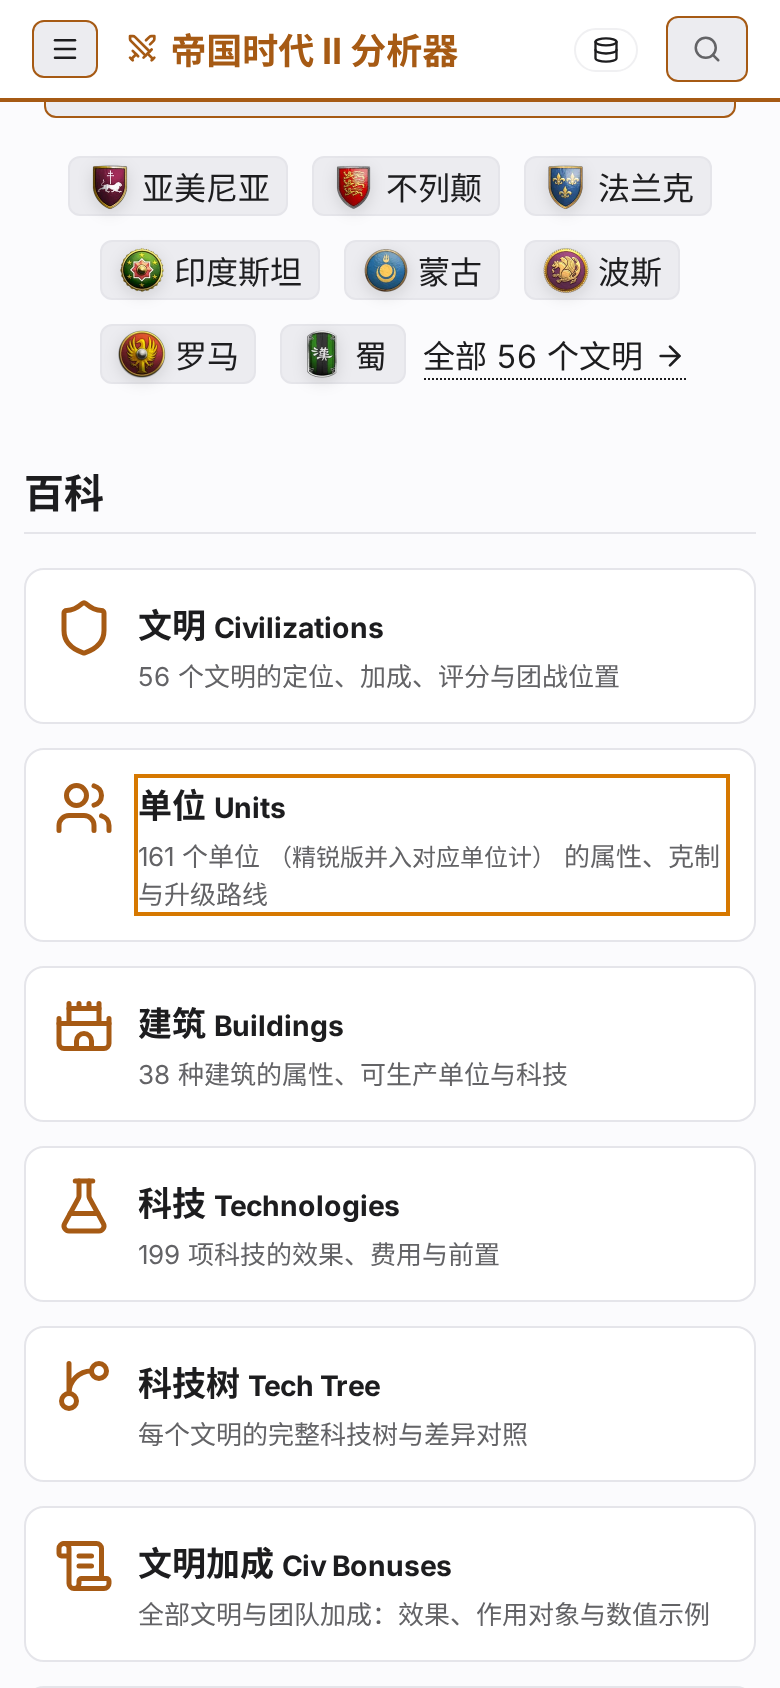
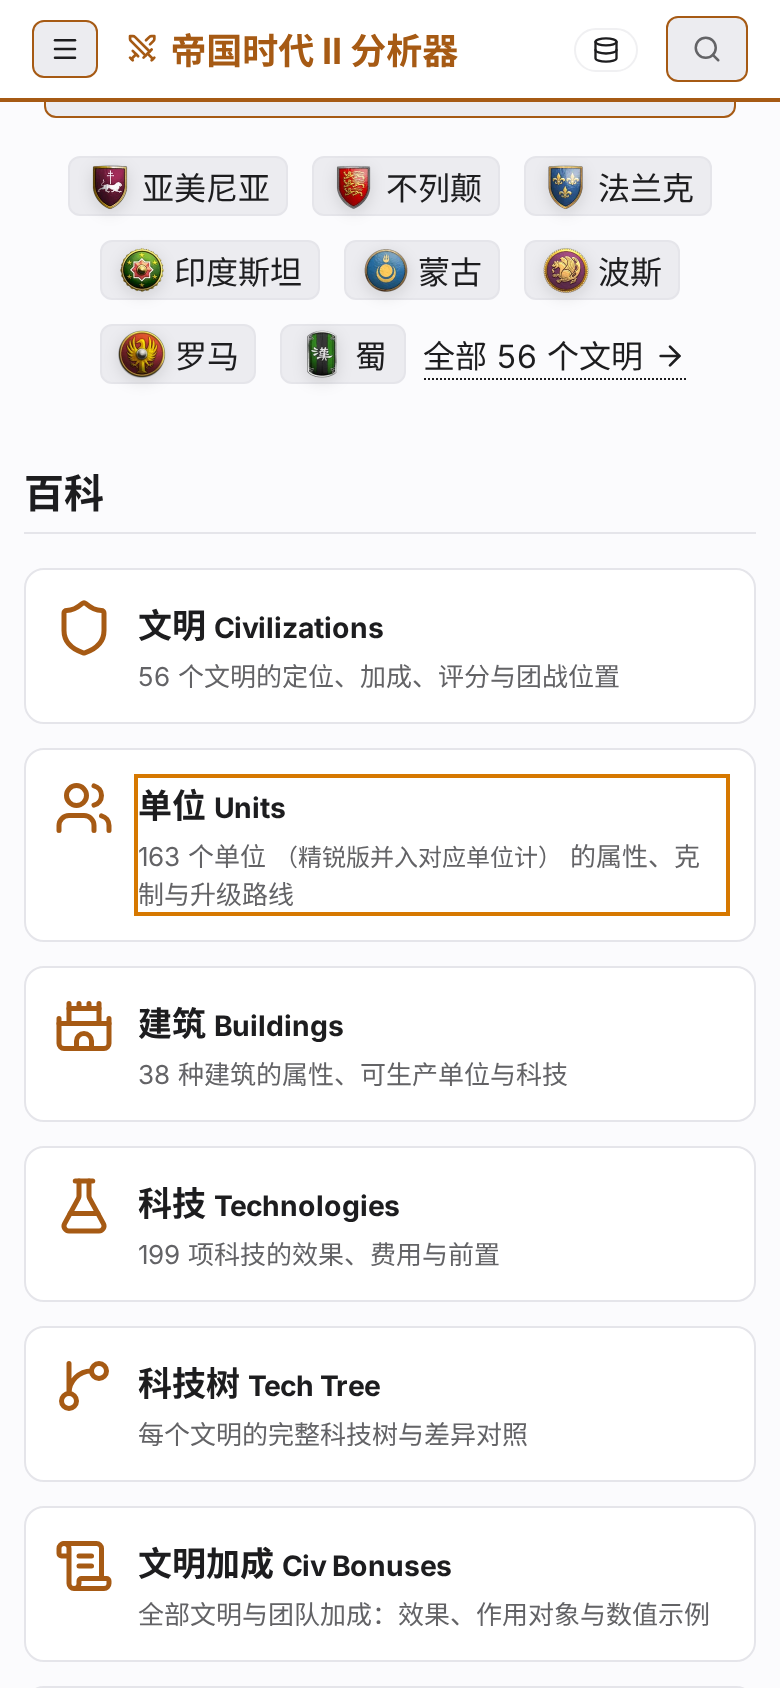
design(#14): count 163 (dedupe by unit id)

Changed region(s): [[0.3692, 0.4929, 0.8308, 0.5237], [0.1846, 0.4929, 0.3692, 0.5545], [0.8615, 0.4929, 0.9231, 0.5237]]

diff --git a/docs/design/mockups/issue14-count/README.md b/docs/design/mockups/issue14-count/README.md
@@ -1,7 +1,7 @@
 # #14 单位总数文案（Steve 定）
 
 - 位置：首页「百科 · 单位」入口卡的说明（`src/app/nav/sections.ts` 里 units 的 `desc`）。
-- 文案：`{n} 个单位` + 灰字注「精锐版并入对应单位计」+ `的属性、克制与升级路线`；n 从数据里算（和单位列表的总数同一个来源，当前为 161），不写死。
-- 灰字注：12px `var(--color-muted)`，紧跟在数字后面，前后加全角括号；如果 desc 只能是纯文本，就写成「161 个单位（精锐版并入对应单位计）的属性、克制与升级路线」。
-- 单位列表页已经显示 161/161，不用改。
+- 文案：`{n} 个单位` + 灰字注「精锐版并入对应单位计」+ `的属性、克制与升级路线`；n 从数据里算（和单位列表的总数同一个来源，当前为 163：Steve 2026-10-11 改为按 unit id 去重，不按中文名），不写死。数字以数据为准。
+- 灰字注：12px `var(--color-muted)`，紧跟在数字后面，前后加全角括号；如果 desc 只能是纯文本，就写成「163 个单位（精锐版并入对应单位计）的属性、克制与升级路线」。
+- 单位列表页总数和这里同源，一并按 unit id 去重。
 - 图：`home-units-count-1280.png` / `-390.png`（线上首页，DOM 里改了文案）。
